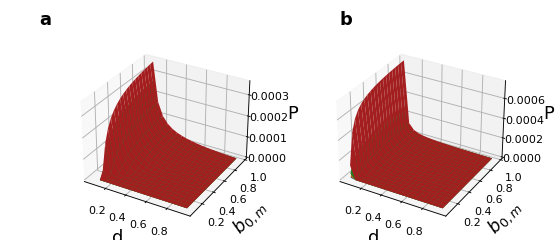
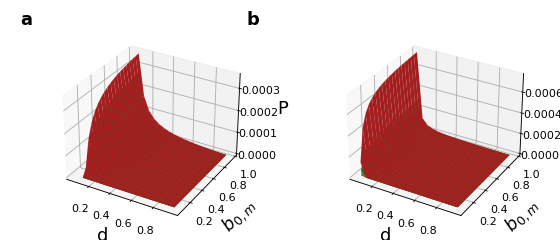
minor changes
removes savefig for p surface

diff --git a/run.py b/run.py
@@ -159,10 +159,10 @@ if P_SURFACE_PLOT == 1:
     
     
     fig = plt.figure(figsize=(7, 3), dpi=80)
-    u_list = np.arange(0.0001, 0.0005, 0.0001)
+    u_list = np.arange(0.0001, 0.0009, 0.0002)
     br_list = np.arange(0.01, 0.05, 0.01)
     ax1 = fig.add_subplot(1, 2, 1, projection='3d')
-    ax1.text2D(-0.1, 1.15, s="a", transform=ax1.transAxes, fontsize=16, fontweight='bold', va='top', ha='right')
+    ax1.text2D(-0.1, 1.1, s="a", transform=ax1.transAxes, fontsize=16, fontweight='bold', va='top', ha='right')
     for k, u in enumerate(u_list):
         P_grid = np.zeros((len(d_list), len(bm_list)), dtype=float)
         for i, bm in enumerate(bm_list):
@@ -182,7 +182,7 @@ if P_SURFACE_PLOT == 1:
     ax1.set_zlabel('P', fontsize=16)
     # ax1.legend()
     ax2 = fig.add_subplot(1, 2, 2, projection='3d')
-    ax2.text2D(1.5, 1.15, "b", transform=ax1.transAxes, fontsize=16, fontweight='bold', va='top', ha='right')
+    ax2.text2D(1.5, 1.1, "b", transform=ax1.transAxes, fontsize=16, fontweight='bold', va='top', ha='right')
     for k, br in enumerate(br_list):
         P_grid = np.zeros((len(d_list), len(bm_list)), dtype=float)
         for i, bm in enumerate(bm_list):
@@ -203,7 +203,7 @@ if P_SURFACE_PLOT == 1:
     # ax2.legend()
     plt.tight_layout()
     # plt.show()
-    plt.savefig("Psurface_br{0}_mu{0}.png".format(b0_r, mu_))
+    # plt.savefig("Psurface.png")
     
     
     
